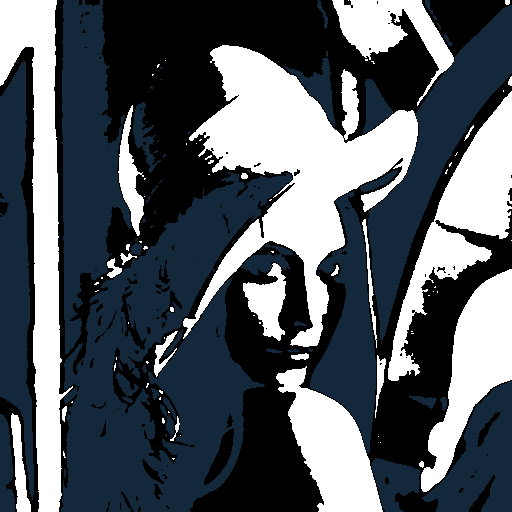
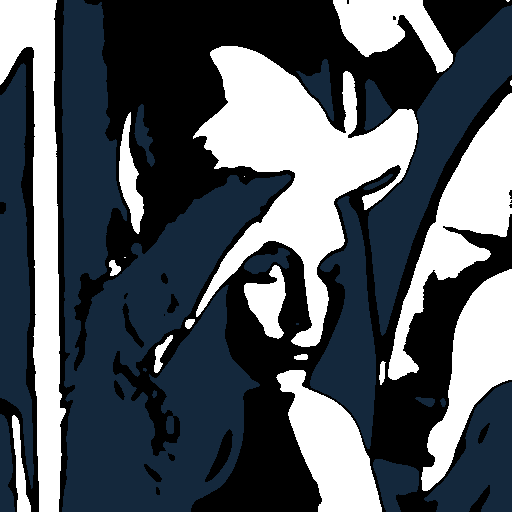
Add blur para and update 3-color with extra blur

diff --git a/tritonize.py b/tritonize.py
@@ -33,7 +33,7 @@ def color_select(threshold_matrix, colors):
     return np.array(colors)[indices_matrix]
 
 
-def create_tritone(image_path, colors):
+def create_tritone(image_path, colors, blur):
     colors_triplets = [hex_to_rgb_triplet(color) if isinstance(
         color, str) else color for color in colors]
 
@@ -42,8 +42,8 @@ def create_tritone(image_path, colors):
     im = imread(image_path, mode='L')
 
     im = np.asarray(im).copy()
-    blur_px_per_mp = 0.25
-    blur = im.size / (blur_px_per_mp * 1000000)
+    blur_px_per_mp = blur
+    blur = im.size * blur_px_per_mp / (1000000)
     gaussian_filter(im, output=im, sigma=blur)
 
     threshold_matrix = sigmoid(im)
@@ -68,6 +68,9 @@ if __name__ == '__main__':
     parser.add_argument('-c',
                         '--colors', nargs='+',
                         help='List of colors (as HEX strings)', required=True)
+    parser.add_argument('-b',
+                        '--blur', nargs='?', default=4.0, type=float,
+                        help='Blur strength')
 
     args = parser.parse_args()
-    create_tritone(args.image, args.colors)
+    create_tritone(args.image, args.colors, args.blur)

diff --git a/examples/README.md b/examples/README.md
@@ -7,7 +7,7 @@ These examples of Tritonize use the [Lenna test image](http://www.ece.rice.edu/~
 ### 3-Colors
 
 ```shell
-python tritonize.py -i Lenna.png --c "#1a1a1a" "#FFFFFF" "#2c3e50"
+python tritonize.py -i Lenna.png --c "#1a1a1a" "#FFFFFF" "#2c3e50" -b 10
 ```
 
 ### 4-Colors
